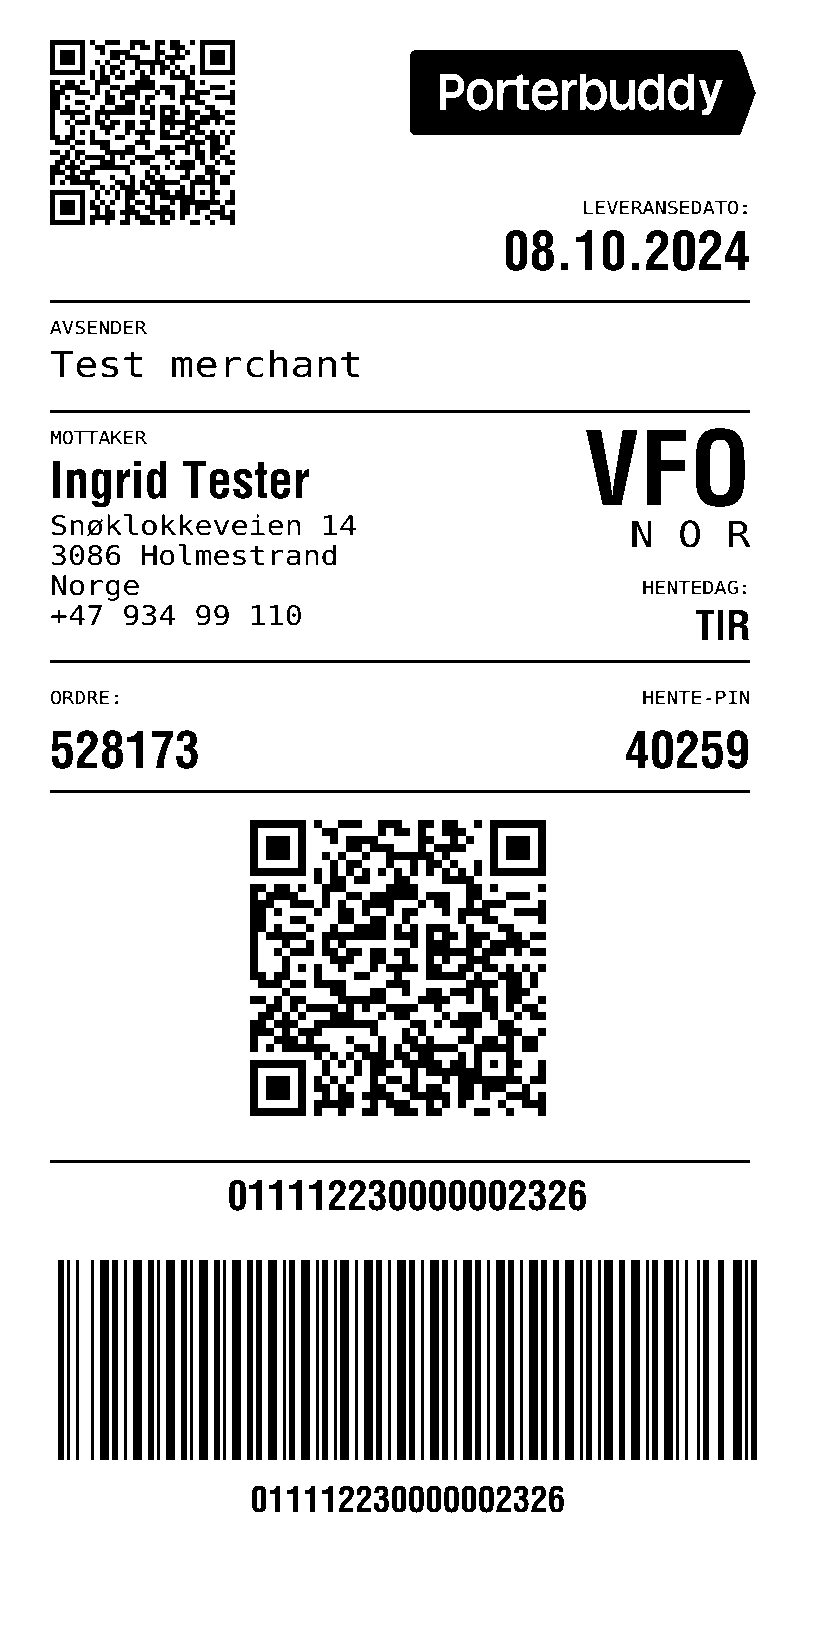
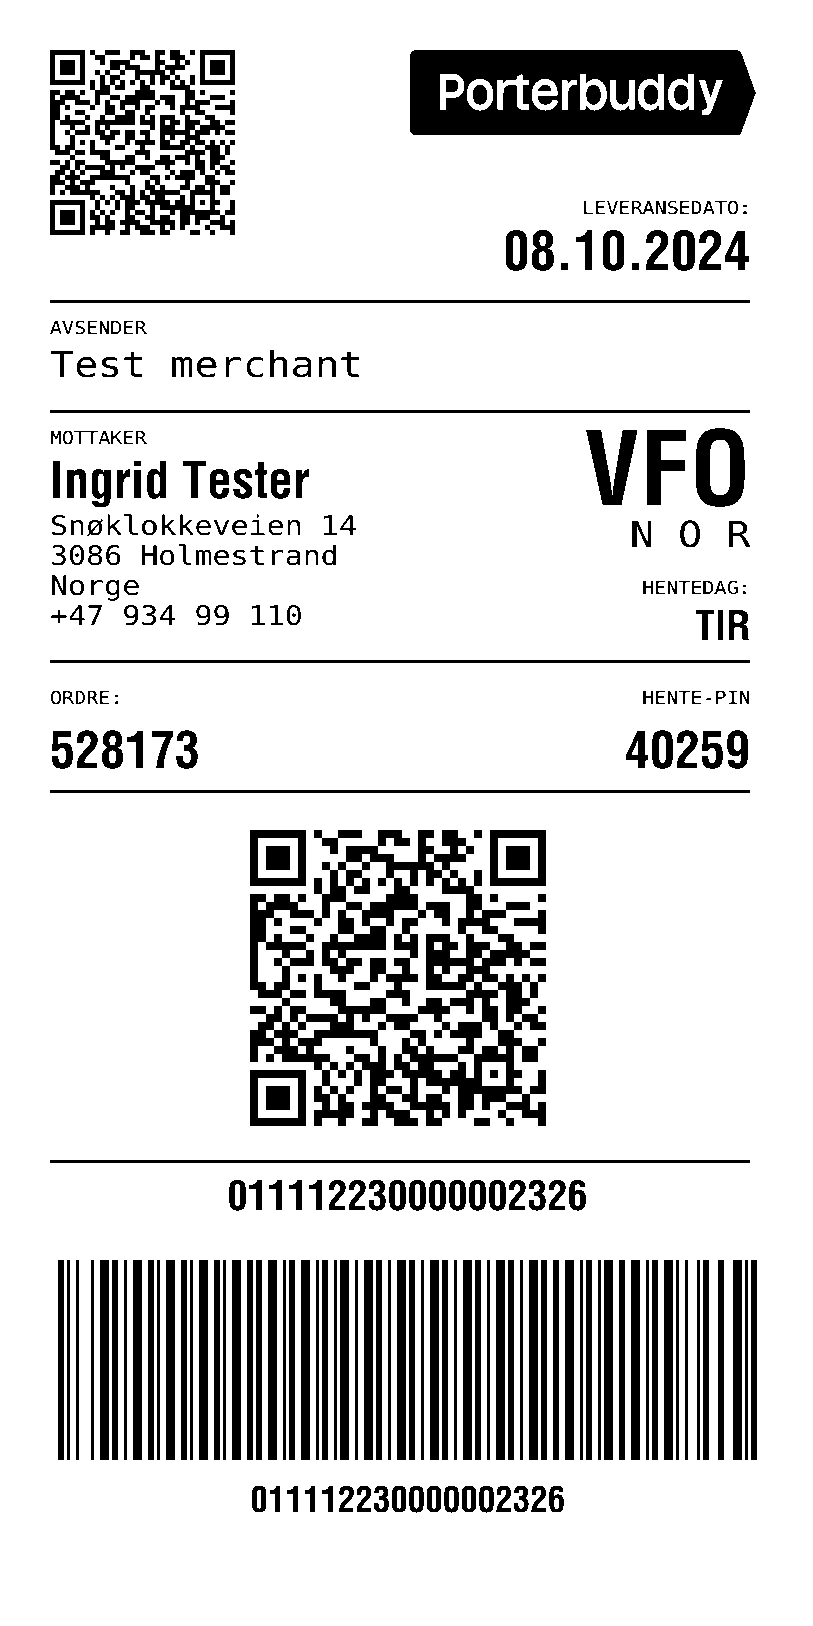
Refactor QR code offset logic + adjust tests

Changed region(s): [[0.3075, 0.492, 0.6765, 0.7073], [0.0615, 0.0, 0.3075, 0.1538]]

diff --git a/internal/parsers/barcode_qr.go b/internal/parsers/barcode_qr.go
@@ -16,7 +16,6 @@ func NewBarcodeQrParser() *CommandParser {
 		Parse: func(command string, printer *printers.VirtualPrinter) (any, error) {
 			barcode := &elements.BarcodeQr{
 				Magnification: 1,
-				Height:        printer.DefaultBarcodeDimensions.Height,
 			}
 
 			parts := splitCommand(command, code, 0)

diff --git a/internal/elements/barcode_qr.go b/internal/elements/barcode_qr.go
@@ -9,11 +9,11 @@ type BarcodeQr struct {
 	// Any number between 1 and 10 may be used.
 	// The default value depends on the print density being used.
 	Magnification int
-	Height        int
 }
 
 type BarcodeQrWithData struct {
 	BarcodeQr
+	Height   int
 	Position LabelPosition
 	Data     string
 }

diff --git a/internal/parsers/field_separator.go b/internal/parsers/field_separator.go
@@ -74,6 +74,7 @@ func NewFieldSeparatorParser() *CommandParser {
 			case *elements.BarcodeQr:
 				return &elements.BarcodeQrWithData{
 					BarcodeQr: *fe,
+					Height:    printer.DefaultBarcodeDimensions.Height,
 					Position:  printer.NextElementPosition,
 					Data:      text,
 				}, nil

diff --git a/parser_test.go b/parser_test.go
@@ -257,6 +257,11 @@ func TestDrawLabelAsPng(t *testing.T) {
 			srcPath: "aztec_ec.zpl",
 			dstPath: "aztec_ec.png",
 		},
+		{
+			name:    "QR code with offset",
+			srcPath: "qr_code_offset.zpl",
+			dstPath: "qr_code_offset.png",
+		},
 	}
 
 	for _, tC := range testCases {
